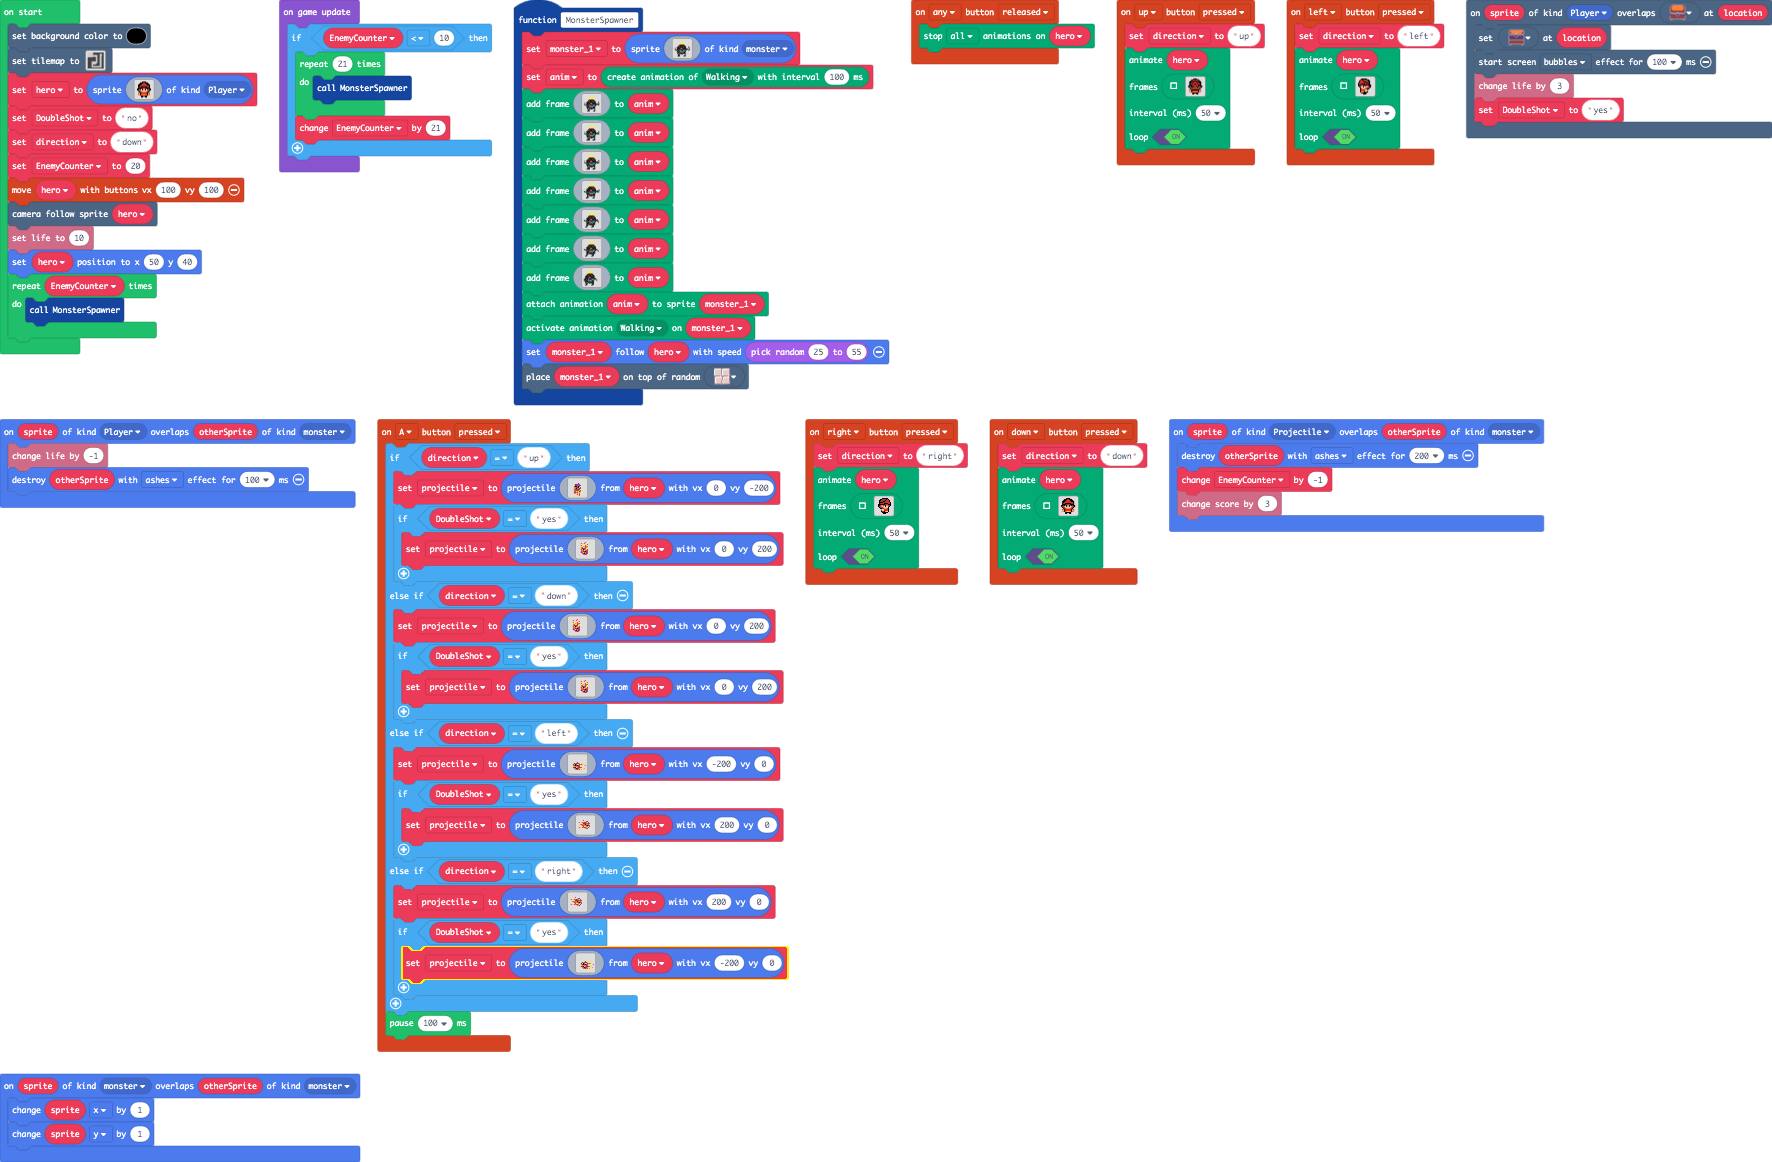
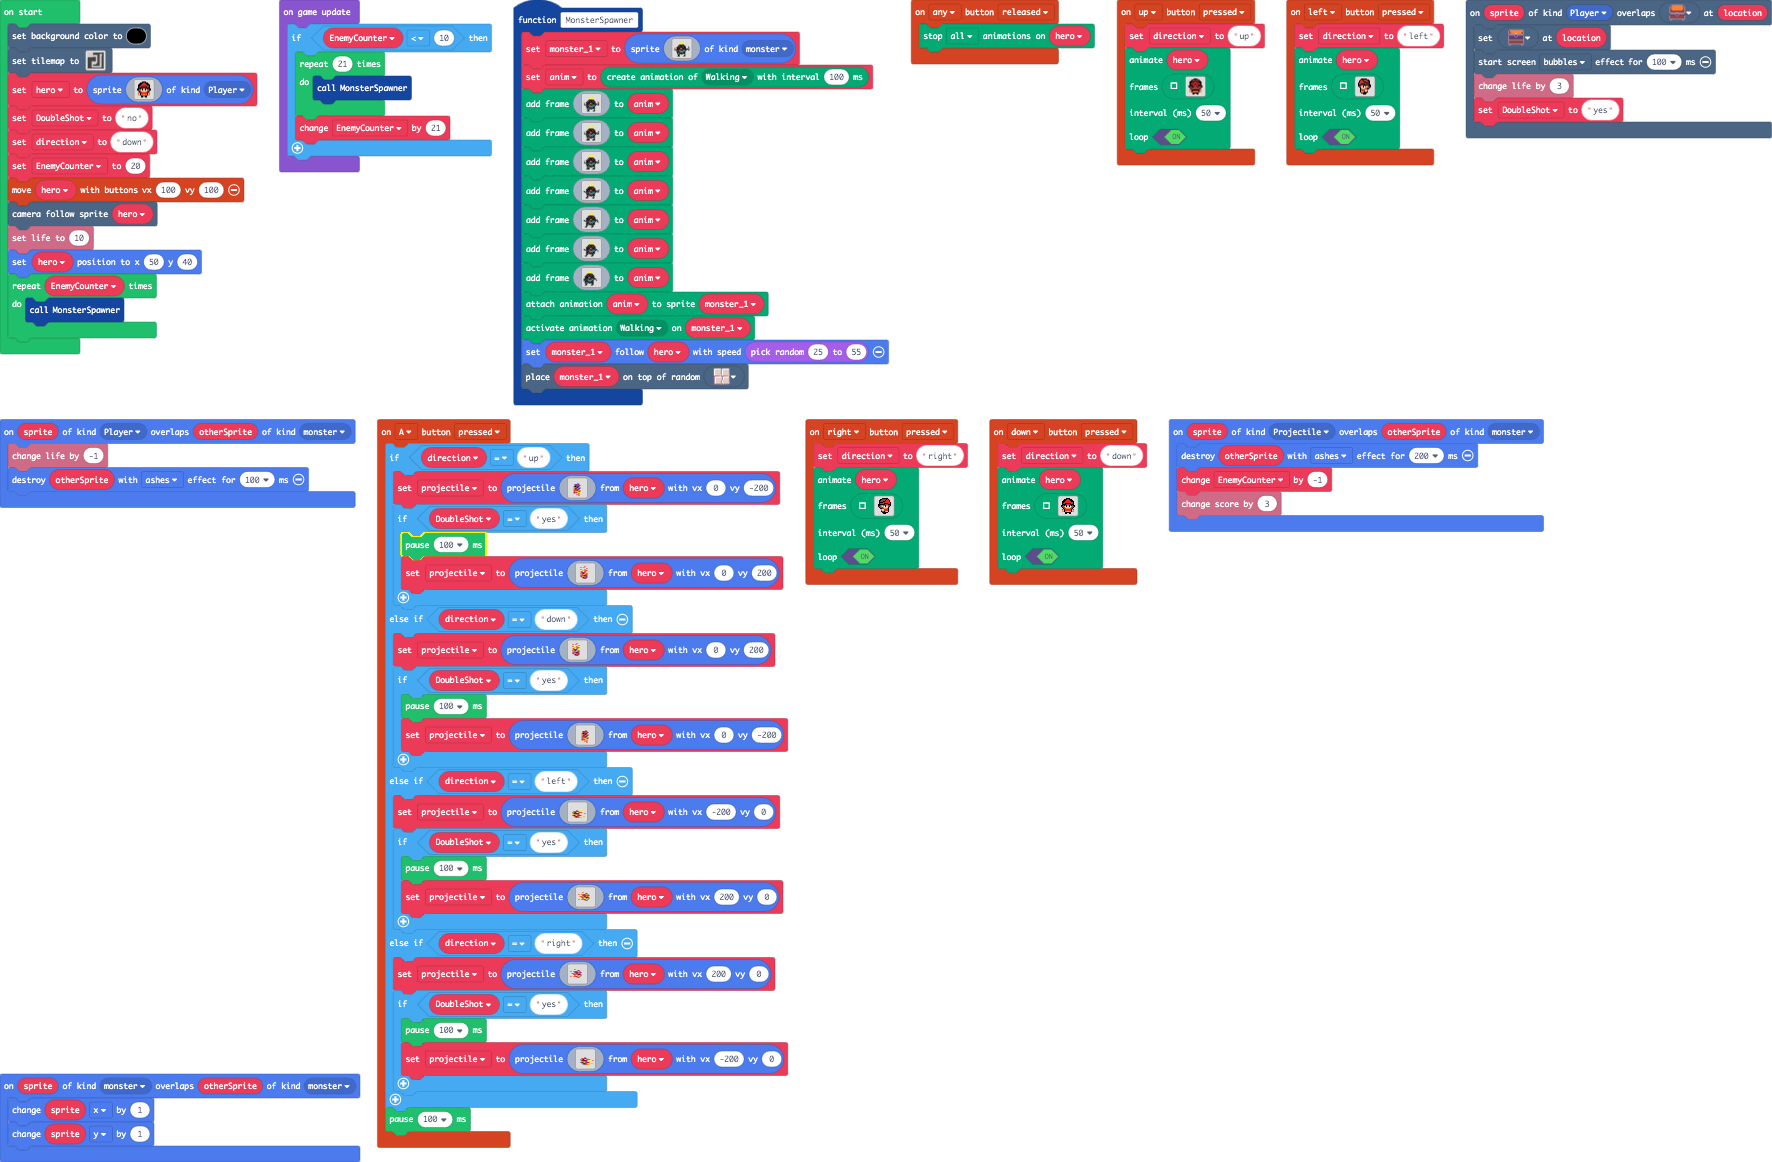
fixed bug and added pause

diff --git a/main.ts b/main.ts
@@ -450,6 +450,7 @@ controller.A.onEvent(ControllerButtonEvent.Pressed, function () {
 . . . . . . . . . 2 . . . . . . 
 `, hero, 0, -200)
         if (DoubleShot == "yes") {
+            pause(100)
             projectile = sprites.createProjectileFromSprite(img`
 . . . . . . . . . . . . . . . . 
 . . . . . . . 2 . . . . . . . . 
@@ -489,24 +490,25 @@ controller.A.onEvent(ControllerButtonEvent.Pressed, function () {
 . . . . . . . . . . . . . . . . 
 `, hero, 0, 200)
         if (DoubleShot == "yes") {
+            pause(100)
             projectile = sprites.createProjectileFromSprite(img`
 . . . . . . . . . . . . . . . . 
-. . . . . . . 2 . . . . . . . . 
-. . . 2 . . 2 . . . . . . . . . 
+. . . . . . . . . . . . . . . . 
+. . . . . . . . . . . . . . . . 
+. . . . . . . . c . . . . . . . 
+. . . . . c a a a c . . . . . . 
+. . . . 5 c 2 a b 2 c . . . . . 
+. . . . b f f b f a 5 . . . . . 
+. . . . 4 b a 2 f 5 a . . . . . 
+. . . . 4 b f b b a c . . . . . 
+. . . . 4 c a 2 c c 5 . . . . . 
+. . . . 2 4 2 2 c 5 2 . . . . . 
+. . . . 4 c 5 4 5 c 2 . . . . . 
+. . . . 2 c 4 c 5 4 5 . . . . . 
+. . . . 4 4 . 4 . 2 . . . . . . 
+. . . . . . . 2 . 2 . . . . . . 
 . . . . . . . . . 2 . . . . . . 
-. . . 2 . 5 . 2 . 5 . . . . . . 
-. . . 5 . 4 . 2 4 2 . . . . . . 
-. . . 4 2 5 . c 4 5 . . . . . . 
-. . . 4 c a 2 a 5 5 . . . . . . 
-. . . c 5 f a b 5 c . . . . . . 
-. . . b 4 2 5 4 2 a . . . . . . 
-. . . 2 b a 2 f 2 a . . . . . . 
-. . . c 2 5 2 b a c . . . . . . 
-. . . . 4 a f 4 c 2 . . . . . . 
-. . . . . b b c 2 . . . . . . . 
-. . . . . . . . . . . . . . . . 
-. . . . . . . . . . . . . . . . 
-`, hero, 0, 200)
+`, hero, 0, -200)
         }
     } else if (direction == "left") {
         projectile = sprites.createProjectileFromSprite(img`
@@ -528,6 +530,7 @@ controller.A.onEvent(ControllerButtonEvent.Pressed, function () {
 . . . . . . . . . . . . . . . . 
 `, hero, -200, 0)
         if (DoubleShot == "yes") {
+            pause(100)
             projectile = sprites.createProjectileFromSprite(img`
 . . . . . . . . . . . . . . . . 
 . . . . . . . . . . . . . . . . 
@@ -567,6 +570,7 @@ controller.A.onEvent(ControllerButtonEvent.Pressed, function () {
 . . . . . . . . . . . . . . . . 
 `, hero, 200, 0)
         if (DoubleShot == "yes") {
+            pause(100)
             projectile = sprites.createProjectileFromSprite(img`
 . . . . . . . . . . . . . . . . 
 . . . . . . . . . . . . . . . . 
